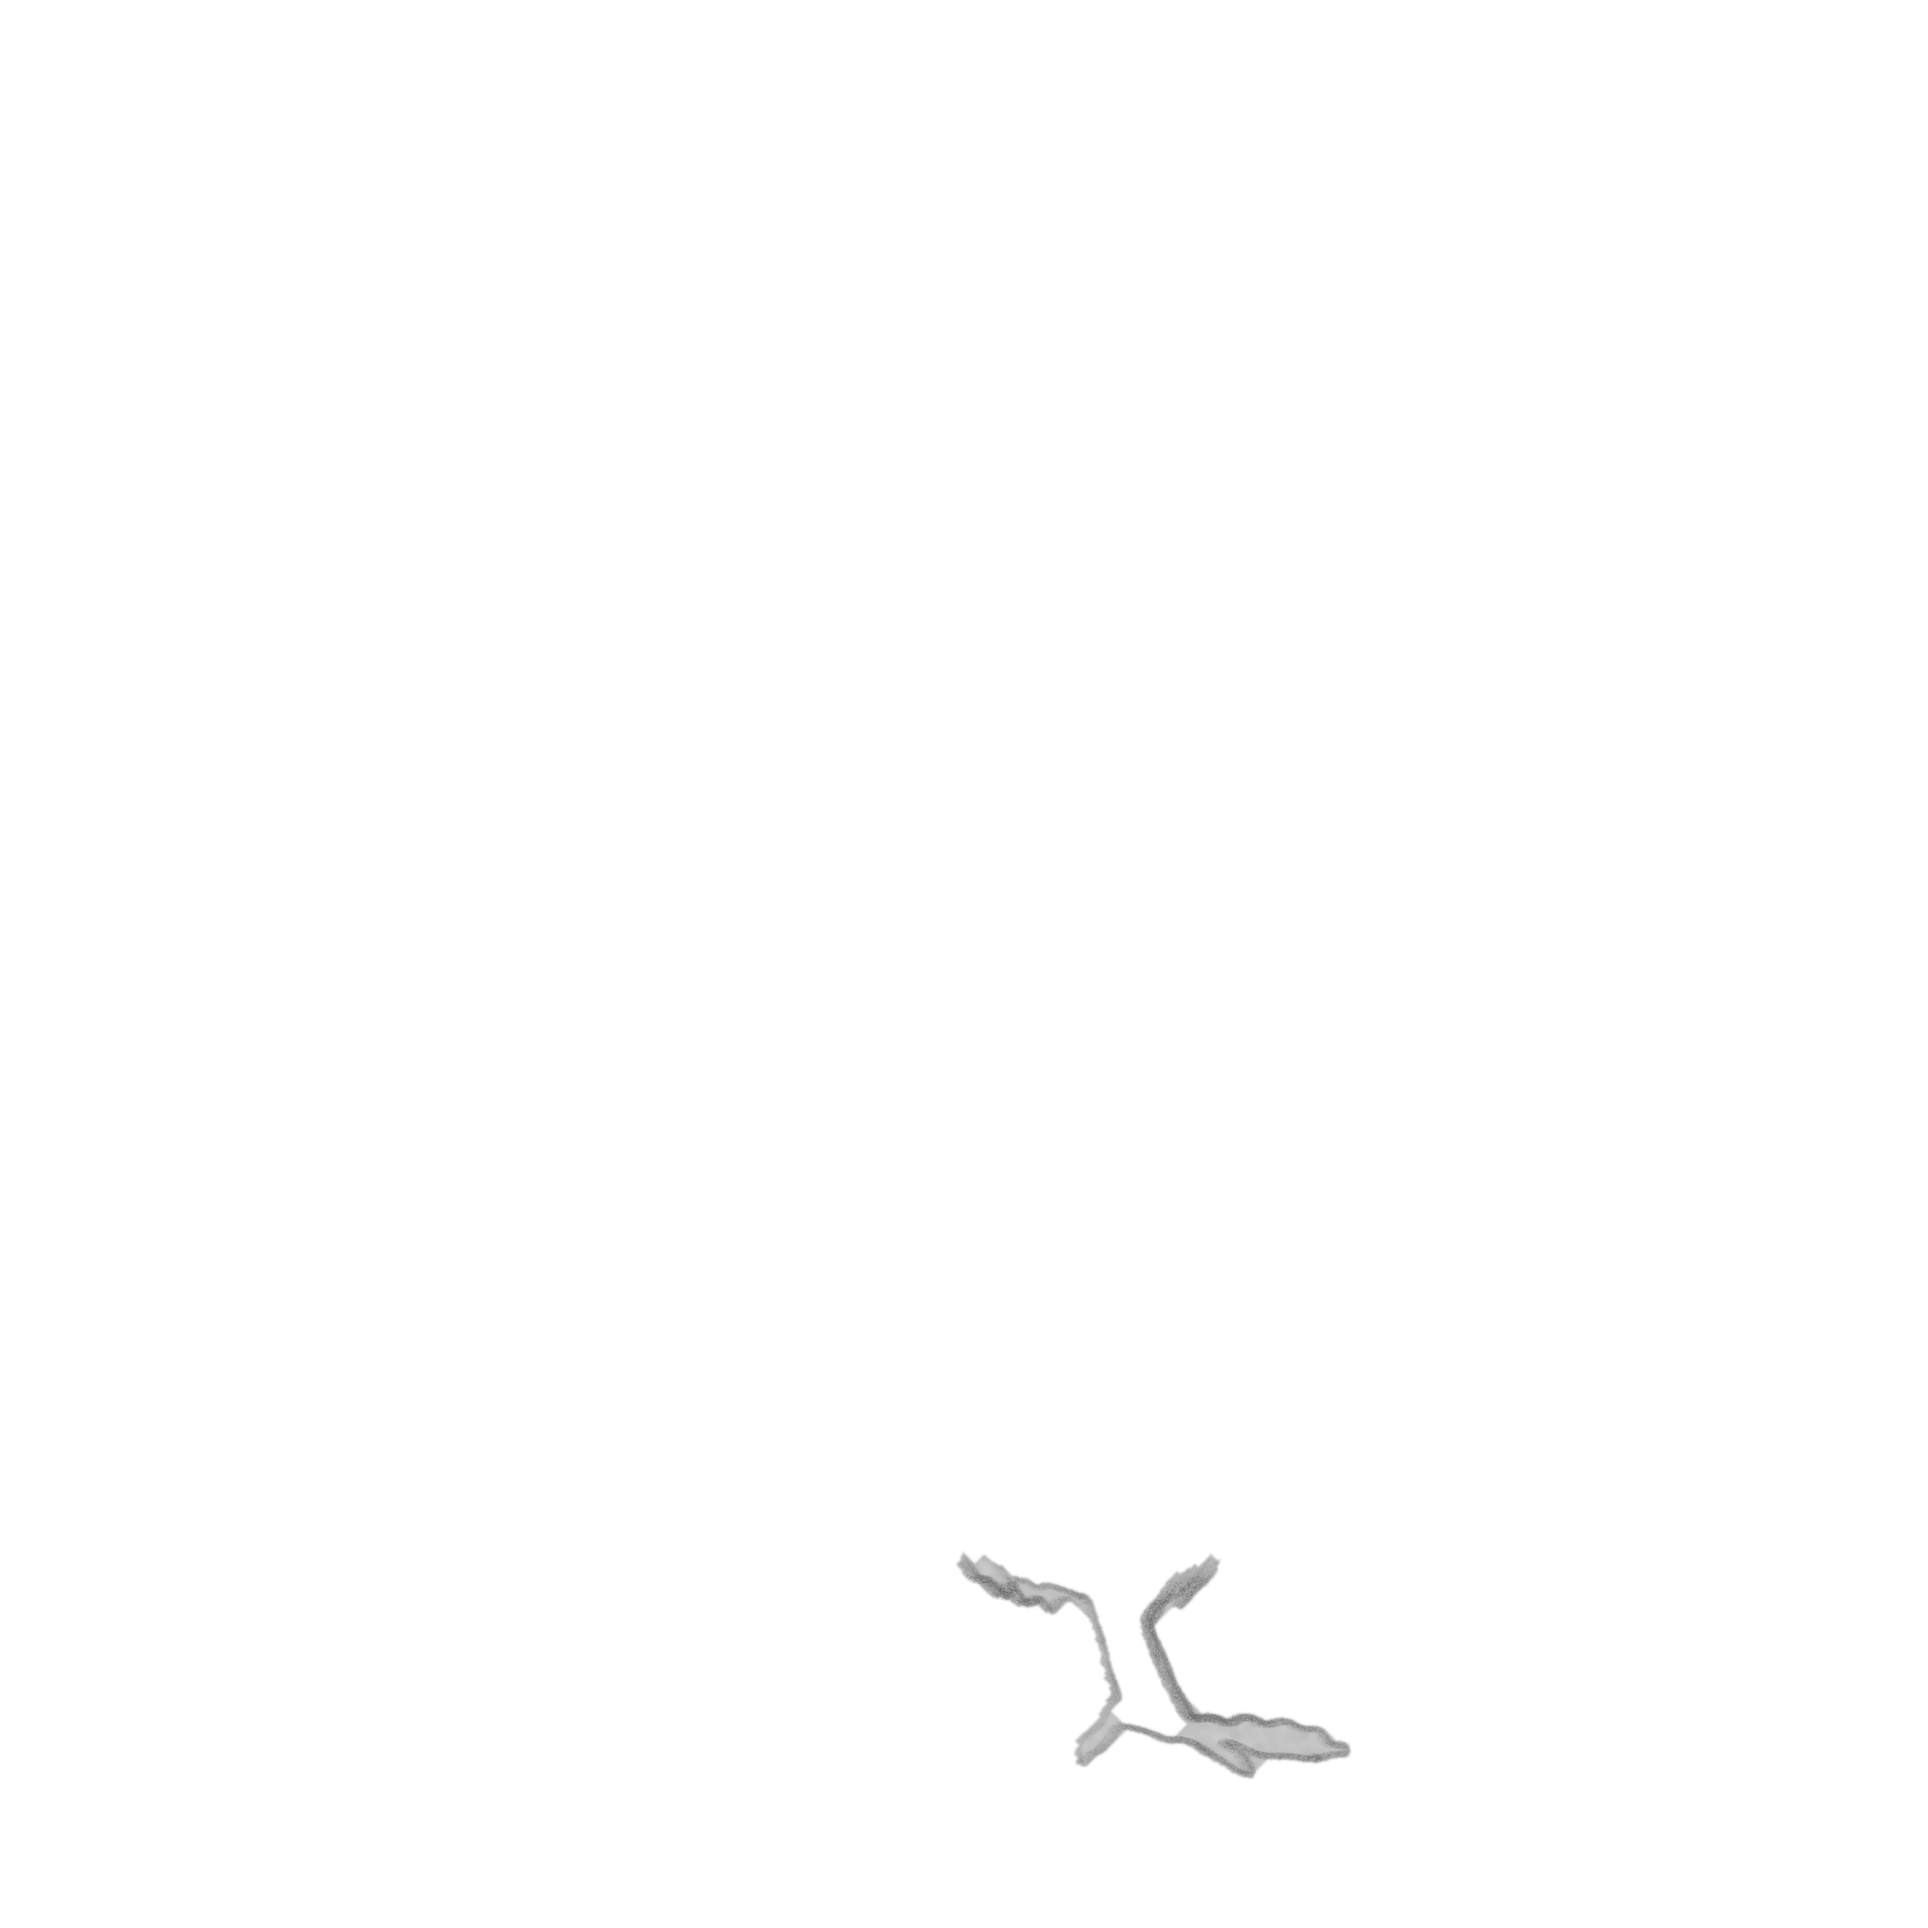
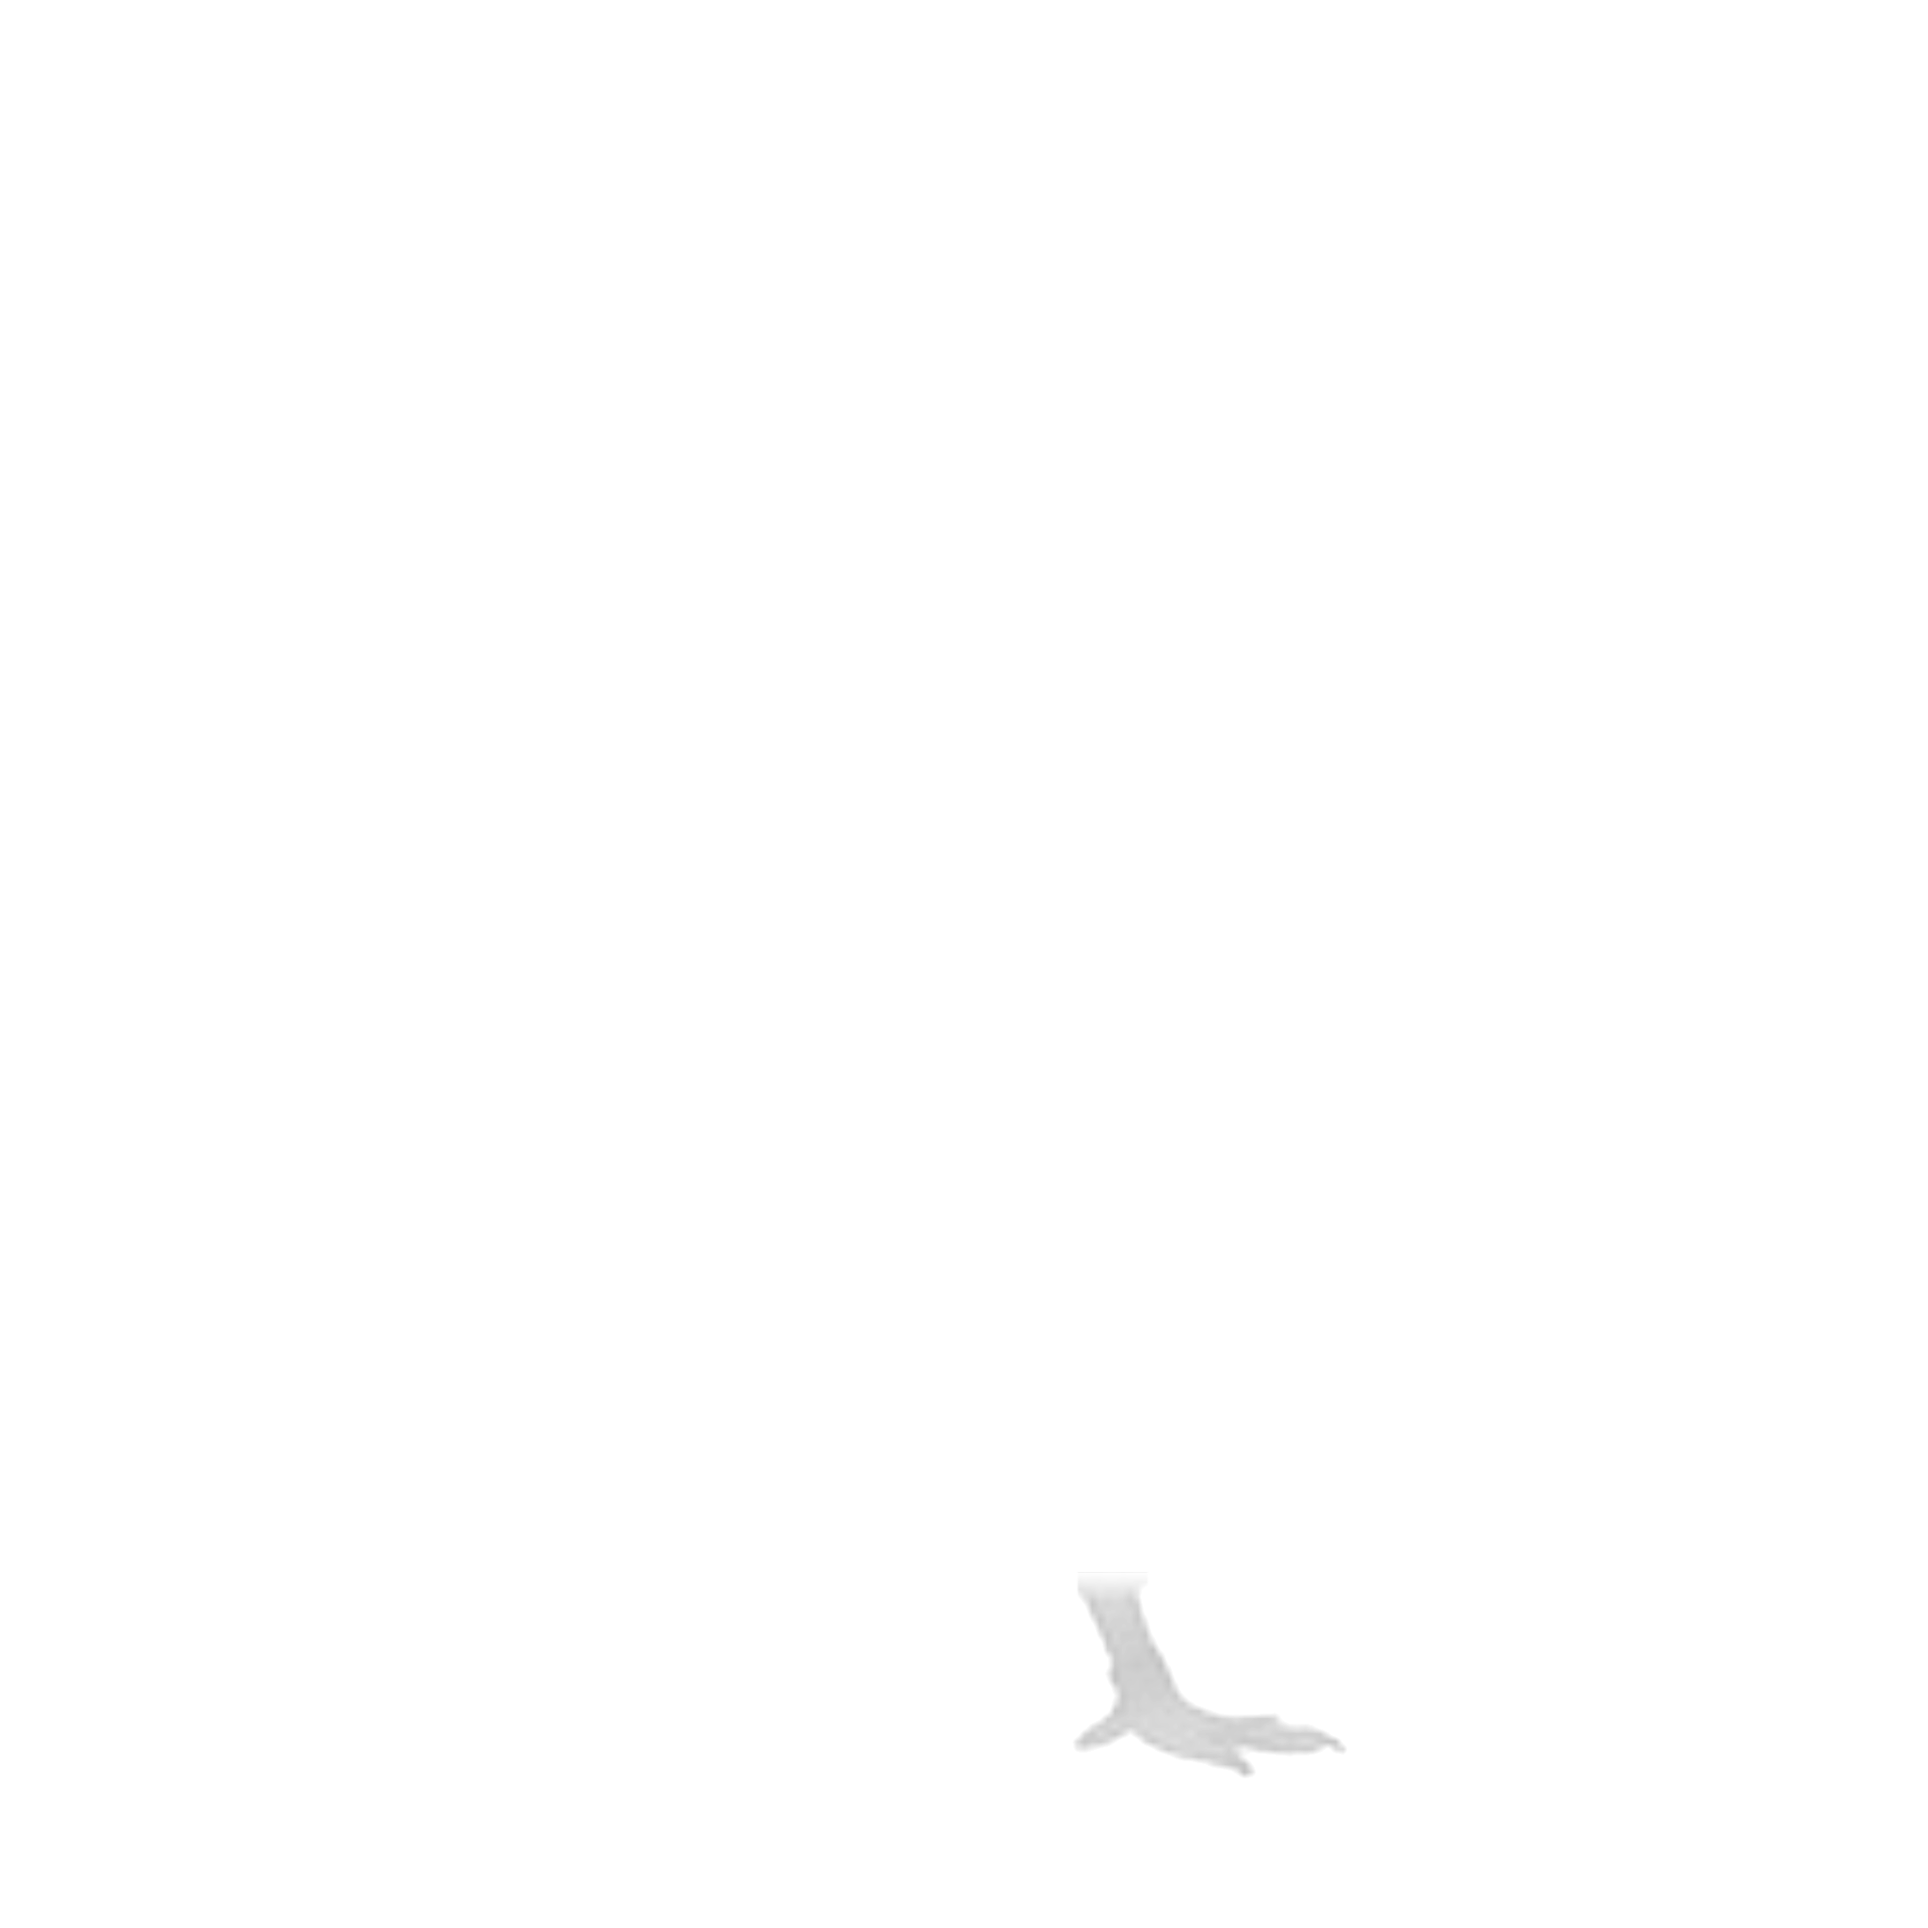
Art: heavy kit re-cut from the watercolour silhouette; proto-hen source layers

Changed region(s): [[0.5, 0.8125, 0.6875, 0.9375]]

diff --git a/App/Featherwick/Art/Parts/proto-hen/README.md b/App/Featherwick/Art/Parts/proto-hen/README.md
@@ -1,0 +1,19 @@
+# proto-hen
+
+Prototype parts cut from Anna's Procreate pencil layers (13 Oct 2026). Canvas 2048 x 2048.
+Frame: ground point (between the feet) at (1130, 1889); bird height 1673 px (comb top at y 216).
+Rig units: x right of the ground point, y up, in bird heights.
+
+Parts (transparent PNG, ink alpha from pencil darkness):
+- body: body outline + both thigh bulges (moved off the leg layers). Stray lines erased.
+- leg_back, leg_front: shank + foot only. Pivot at the top of the shank, y 0.18.
+  leg_back hip (-0.11, 0.18), leg_front hip (0.03, 0.18).
+- neck: the hackle oval. For this heavy build it rides on the body and does not swing.
+- head, comb, beak, eye: dip together at the throat (0.29, 0.79). Head/neck cut at row 545; needs overlap when painted.
+- tail: rides on the body.
+
+Measured joints (rig units): shoulder (0.15, 0.60), eye (0.365, 0.855), beak tip (0.44, 0.905),
+comb base (0.34, 0.92), tail root (-0.14, 0.70), body tilt pivot (-0.03, 0.18).
+
+hinge-test.png: rest, walk (22 deg), peck (body 22, head 40), glance (head 18).
+rig-overlay.png: the code's current adult rig joints (red) over the drawing (blue = measured).
